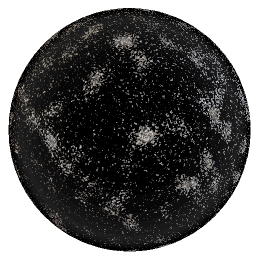
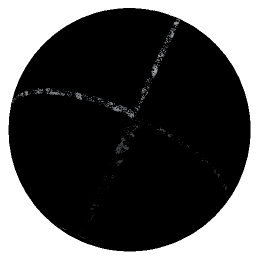
Sync

Changed region(s): [[0.0312, 0.0312, 1.0, 1.0], [0.3438, 0.4688, 0.4062, 0.5312]]

diff --git a/src/cloud.html b/src/cloud.html
@@ -13,4 +13,27 @@
 
       <h5 class="fw-normal text-muted text-center mb-5">Contains assets from <a href="https://armorpaint.org/">ArmorPaint</a>, <a href="https://ambientcg.com/">AmbientCG</a> and <a href="https://polyhaven.com/">PolyHaven</a>. ❤️ Licensed under CC0.</h5>
 
+      <script>
+      document.addEventListener('DOMContentLoaded', () => {
+        const searchInput = document.getElementById('asset-search');
+        const assetGrid = document.getElementById('asset-grid');
+        const galleryItems = assetGrid.querySelectorAll('div');
+
+        searchInput.addEventListener('input', (e) => {
+          const searchTerm = e.target.value.toLowerCase();
+
+          galleryItems.forEach(item => {
+            const textContent = item.textContent.toLowerCase();
+            const imageAlt = item.querySelector('img')?.alt?.toLowerCase() || '';
+
+            if (textContent.includes(searchTerm) || imageAlt.includes(searchTerm)) {
+              item.style.display = '';
+            } else {
+              item.style.display = 'none';
+            }
+          });
+        });
+      });
+      </script>
+
       <!------------------------------------->

diff --git a/src/make.js b/src/make.js
@@ -76,8 +76,25 @@ writeManual('manual.html', 'manual_header.html', 'manual_footer.html', '../manua
 		// 	await download(url, '../img/cloud/' + file);
 		// }
 
+
+		let count = 0;
+		fs.readdirSync('../img/cloud').sort().forEach(file => {
+			const isIconJpg = file.endsWith('_icon.jpg');
+			const isIconPng = file.endsWith('_icon.png');
+			const isMaterial = pathToMaterialMap.get(file);
+			if ((isMaterial && isIconPng) || (!isMaterial && isIconJpg)) {
+				count++;
+			}
+		});
+
 		let cloud_grid = `
-		<div style="justify-content: center; display: grid; grid-template-columns: repeat(auto-fill, 170px); max-width: 900px; margin: auto;">
+		<div class="col-md-6 p-lg-5 mx-auto my-5 fade-in">
+        	<input type="text" id="asset-search" class="form-control form-control-lg mx-auto" style="max-width: 500px;" placeholder="Search ` + count + ` assets...">
+      	</div>
+		`;
+
+		cloud_grid += `
+		<div id="asset-grid" style="justify-content: center; display: grid; grid-template-columns: repeat(auto-fill, 170px); max-width: 900px; margin: auto;">
 		`;
 
 		fs.readdirSync('../img/cloud').sort().forEach(file => {
@@ -85,14 +102,16 @@ writeManual('manual.html', 'manual_header.html', 'manual_footer.html', '../manua
 			const isIconPng = file.endsWith('_icon.png');
 			const isMaterial = pathToMaterialMap.get(file);
 			if ((isMaterial && isIconPng) || (!isMaterial && isIconJpg)) {
+				count++;
 				let label = file.slice(0, -9);
 				if (label.length > 13) label = label.substring(0, 11) + '...';
 				let filePath = 'img/cloud/' + file;
-				cloud_grid += '<div style="width: 70%; text-align: center; margin: auto;"><img style="width: 128px;" src="' + filePath + '"/><br>' + label + '<br><br></div>';
+				cloud_grid += '<div class="gallery-item" style="width: 70%; text-align: center; margin: auto;"><img style="width: 128px;" src="' + filePath + '"/><br>' + label + '<br><br></div>';
 			}
 		});
 
 		cloud_grid += '</div>';
+
 		writeHtml('cloud.html', cloud_grid);
 
 		fs.unlinkSync('index.txt');